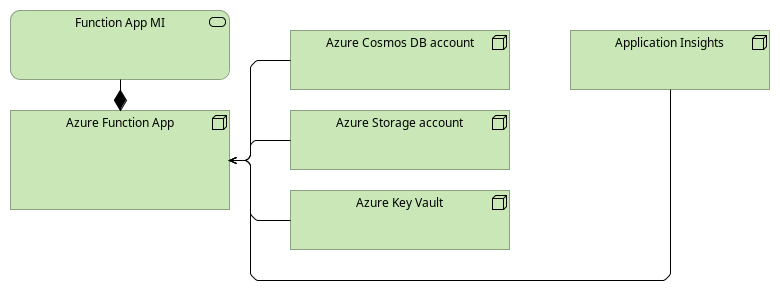
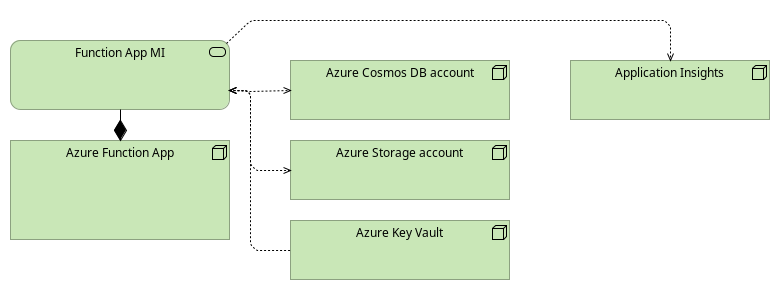
Fix technology security view

diff --git a/docs/architecture/README.md b/docs/architecture/README.md
@@ -30,13 +30,13 @@ LFM-internal vs Blizzard-external trust boundary, drawn explicitly with two `Gro
 
 ![Technology Realisation](renders/id-view-technology.png)
 
-The Azure resources and data-plane artifacts (single resource group, single region) with their hosting + data-plane relationships: `Azure Static Web Apps` hosts `Lfm.App`; `Azure Function App` hosts `Lfm.Api` on an App Service Plan using the committed Y1 Dynamic SKU and consumes `Cosmos DB account` (Free Tier, `disableLocalAuth=true`), `Storage account` (Standard_LRS, `allowSharedKeyAccess=false`), and `Key Vault` (RBAC-authorized) as data-plane services; `Application Insights` is workspace-based, aggregated by `Log Analytics workspace`. The Cosmos SQL database Artifact, Functions runtime version, container Artifacts, diagnostic-settings flows, and the Action Group + Cosmos throttle alert are tracked in the model but reserved for detail views.
+The Azure resources and data-plane artifacts (single resource group, single region) with their hosting + data-plane relationships: `Azure Static Web Apps` hosts `Lfm.App`; `Azure Function App` hosts `Lfm.Api` on an App Service Plan using the committed Y1 Dynamic SKU and consumes `Cosmos DB account` (Free Tier, `disableLocalAuth=true`), `Storage account` (Standard_LRS, `allowSharedKeyAccess=false`), and `Key Vault` (RBAC-authorized) as data-plane services; `Application Insights` is workspace-based, aggregated by `Log Analytics workspace`. This view keeps the runtime topology separate from the managed-identity `Access` edges shown in Technology Security. The Cosmos SQL database Artifact, Functions runtime version, container Artifacts, diagnostic-settings flows, and the Action Group + Cosmos throttle alert are tracked in the model but reserved for detail views.
 
 ### 3. Technology Security (MI + RBAC)
 
 ![Technology Security](renders/id-view-technology-security.png)
 
-How `Lfm.Api` authenticates to every data-plane resource. The Function App carries a system-assigned managed identity (no client secrets, no shared keys). The MI is represented in the model as a `TechnologyService` to show the RBAC-authorized access surface; it is not a standalone Azure resource. The MI is granted six baseline data-plane RBAC roles in [`infra/modules/functions.bicep`](../../infra/modules/functions.bicep): **Key Vault Secrets User** on the Vault, **Cosmos DB Built-in Data Contributor** on the account, **Storage Blob Data Owner** + **Queue Data Contributor** + **Table Data Contributor** on the account, **Monitoring Metrics Publisher** on Application Insights (the last is required because App Insights has `DisableLocalAuth=true`). [`infra/modules/dataprotection.bicep`](../../infra/modules/dataprotection.bicep) adds the Data Protection-specific **Key Vault Crypto User** and **Storage Blob Data Contributor** grants for the encrypted key ring. Cosmos `disableLocalAuth=true` and Storage `allowSharedKeyAccess=false` make RBAC the **only** authentication path; the Serving edges into the Function App are runtime dependencies authorized by those managed-identity role assignments.
+How `Lfm.Api` authenticates to every data-plane resource. The Function App carries a system-assigned managed identity (no client secrets, no shared keys). The MI is represented in the model as a `TechnologyService` to show the RBAC-authorized access surface; it is not a standalone Azure resource. The MI is granted six baseline data-plane RBAC roles in [`infra/modules/functions.bicep`](../../infra/modules/functions.bicep): **Key Vault Secrets User** on the Vault, **Cosmos DB Built-in Data Contributor** on the account, **Storage Blob Data Owner** + **Queue Data Contributor** + **Table Data Contributor** on the account, **Monitoring Metrics Publisher** on Application Insights (the last is required because App Insights has `DisableLocalAuth=true`). [`infra/modules/dataprotection.bicep`](../../infra/modules/dataprotection.bicep) adds the Data Protection-specific **Key Vault Crypto User** and **Storage Blob Data Contributor** grants for the encrypted key ring. Cosmos `disableLocalAuth=true` and Storage `allowSharedKeyAccess=false` make RBAC the **only** authentication path; the `Access` edges from Function App MI to the resources represent the required role assignments rather than runtime hosting or dependency topology.
 
 ### 4. Production Release Migration
 
